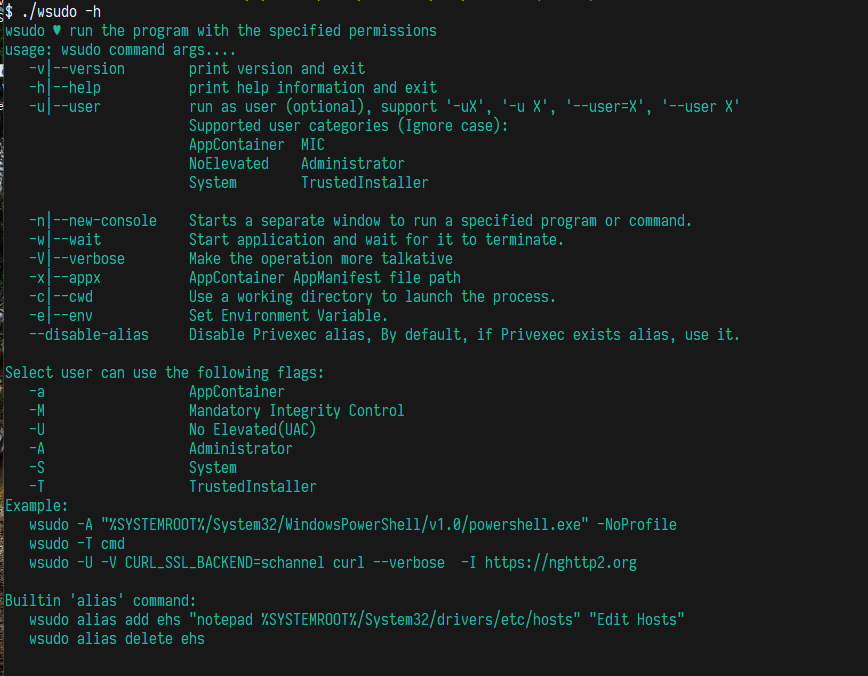
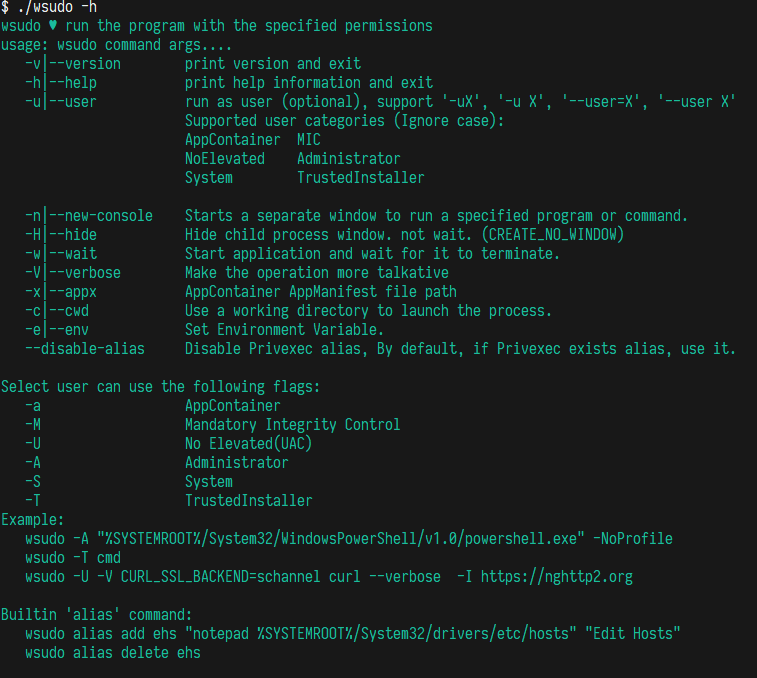
wsudo support -H/--hide

diff --git a/wsudo/wsudo.cc b/wsudo/wsudo.cc
@@ -115,7 +115,11 @@ int AppMode::ParseArgv(int argc, wchar_t **argv) {
       continue;
     }
     if (Match(arg, L"-n", L"--new-console")) {
-      newconsole = true;
+      visible = priv::VisibleNewConsole;
+      continue;
+    }
+    if (Match(arg, L"-H", L"--hide")) {
+      visible = priv::VisibleHide;
       continue;
     }
     if (Match(arg, L"--disable-alias")) {
@@ -227,6 +231,7 @@ usage: wsudo command args....
                        System        TrustedInstaller
 
    -n|--new-console    Starts a separate window to run a specified program or command.
+   -H|--hide           Hide child process window. not wait. (CREATE_NO_WINDOW)
    -w|--wait           Start application and wait for it to terminate.
    -V|--verbose        Make the operation more talkative
    -x|--appx           AppContainer AppManifest file path
@@ -343,14 +348,19 @@ int AppExecute(wsudo::AppMode &am) {
   auto cmdline = ExpandEnv(cmd);
   auto isconsole = AppExecuteSubsystemIsConsole(cmdline, am.verbose);
   auto elevated = priv::IsUserAdministratorsGroup();
-  bool newconsole = am.newconsole;
-  // UAC Elevated
-  if (!elevated && am.level == priv::ProcessElevated) {
-    newconsole = isconsole;
+  bool waitable = false;
+  if (!elevated && am.level == priv::ProcessElevated &&
+      am.visible == priv::VisibleNone) {
+    am.visible = priv::VisibleNewConsole; /// change visible
   }
+  if (am.visible == priv::VisibleNone && isconsole || am.wait) {
+    waitable = true;
+  }
+  // UAC Elevated
+
   if (am.verbose && isconsole) {
     priv::Print(priv::fc::Yellow, L"* App subsystem is console, %s\n",
-                newconsole ? L"create new console" : L"share the same console");
+                am.Visible());
   }
   for (auto it = am.args.begin() + 1; it != am.args.end(); it++) {
     if (it->empty()) {
@@ -378,7 +388,7 @@ int AppExecute(wsudo::AppMode &am) {
       p.cwd() = ExpandEnv(am.cwd.data());
     }
     auto appx = ExpandEnv(am.appx.data());
-    p.newconsole(newconsole);
+    p.visiblemode(am.visible);
     priv::Print(priv::fc::Yellow, L"Command: %s\n", cmdline);
     if (!p.initialize(appx) || !p.execute()) {
       auto ec = priv::error_code::lasterror();
@@ -395,21 +405,21 @@ int AppExecute(wsudo::AppMode &am) {
     }
     priv::Print(priv::fc::Green, L"new appcontainer process is running: %d\n",
                 p.pid());
-    if (!newconsole && isconsole || am.wait) {
+    if (waitable) {
       return AppWait(p.pid());
     }
     return 0;
   }
 
   priv::process p(cmdline);
-  p.newconsole(am.newconsole);
+  p.visiblemode(am.visible);
   if (!am.cwd.empty()) {
     p.cwd() = ExpandEnv(am.cwd.data());
   }
   priv::Print(priv::fc::Yellow, L"Command: %s\n", cmdline);
   if (p.execute(am.level)) {
     priv::Print(priv::fc::Green, L"new process is running: %d\n", p.pid());
-    if (!newconsole && isconsole || am.wait) {
+    if (waitable) {
       return AppWait(p.pid());
     }
     return 0;

diff --git a/Privexec/apputils.cc b/Privexec/apputils.cc
@@ -4,6 +4,7 @@
 #include <commdlg.h>
 #include <shellapi.h>
 #include <ShlObj.h>
+#include <comutils.hpp>
 
 HRESULT WINAPI TaskDialogCallbackProc__(__in HWND hwnd, __in UINT msg,
                                         __in WPARAM wParam, __in LPARAM lParam,
@@ -26,52 +27,6 @@ HRESULT WINAPI TaskDialogCallbackProc__(__in HWND hwnd, __in UINT msg,
 }
 
 namespace utils {
-template <class T> class comptr {
-public:
-  comptr() { ptr = NULL; }
-  comptr(T *p) {
-    ptr = p;
-    if (ptr != NULL)
-      ptr->AddRef();
-  }
-  comptr(const comptr<T> &sptr) {
-    ptr = sptr.ptr;
-    if (ptr != NULL)
-      ptr->AddRef();
-  }
-  T **operator&() { return &ptr; }
-  T *operator->() { return ptr; }
-  T *operator=(T *p) {
-    if (*this != p) {
-      ptr = p;
-      if (ptr != NULL)
-        ptr->AddRef();
-    }
-    return *this;
-  }
-  operator T *() const { return ptr; }
-  template <class I> HRESULT QueryInterface(REFCLSID rclsid, I **pp) {
-    if (pp != NULL) {
-      return ptr->QueryInterface(rclsid, (void **)pp);
-    } else {
-      return E_FAIL;
-    }
-  }
-  HRESULT CoCreateInstance(REFCLSID clsid, IUnknown *pUnknown,
-                           REFIID interfaceId,
-                           DWORD dwClsContext = CLSCTX_ALL) {
-    HRESULT hr = ::CoCreateInstance(clsid, pUnknown, dwClsContext, interfaceId,
-                                    (void **)&ptr);
-    return hr;
-  }
-  ~comptr() {
-    if (ptr != NULL)
-      ptr->Release();
-  }
-
-private:
-  T *ptr;
-};
 
 HRESULT PrivMessageBox(HWND hWnd, LPCWSTR pszWindowTitle, LPCWSTR pszContent,
                        LPCWSTR pszExpandedInfo, windowtype_t type) {
@@ -129,8 +84,8 @@ std::optional<std::wstring> PrivFilePicker(HWND hWnd, const wchar_t *title,
   if (filter == nullptr) {
     return std::nullopt;
   }
-  comptr<IFileOpenDialog> window;
-  comptr<IShellItem> item;
+  priv::comptr<IFileOpenDialog> window;
+  priv::comptr<IShellItem> item;
   if (window.CoCreateInstance(CLSID_FileOpenDialog, nullptr,
                               IID_IFileOpenDialog,
                               CLSCTX_INPROC_SERVER) != S_OK) {
@@ -160,7 +115,7 @@ std::optional<std::wstring> PrivFilePicker(HWND hWnd, const wchar_t *title,
   return opt;
 }
 std::optional<std::wstring> PrivFolderPicker(HWND hWnd, const wchar_t *title) {
-  comptr<IFileDialog> w;
+  priv::comptr<IFileDialog> w;
   if (w.CoCreateInstance(CLSID_FileOpenDialog, nullptr, IID_IFileDialog,
                          CLSCTX_INPROC_SERVER) != S_OK) {
     return std::nullopt;
@@ -171,7 +126,7 @@ std::optional<std::wstring> PrivFolderPicker(HWND hWnd, const wchar_t *title) {
   }
   w->SetOptions(dwo | FOS_PICKFOLDERS);
   w->SetTitle(title == nullptr ? L"Open Folder Picker" : title);
-  comptr<IShellItem> item;
+  priv::comptr<IShellItem> item;
   if (w->Show(hWnd) != S_OK) {
     return std::nullopt;
   }

diff --git a/include/process/details/processfwd.hpp b/include/process/details/processfwd.hpp
@@ -72,6 +72,12 @@ enum ProcessExecuteLevel {
   ProcessTrustedInstaller
 };
 
+enum visiblemode_t {
+  VisibleNone, //
+  VisibleNewConsole,
+  VisibleHide
+};
+
 class process {
 public:
   template <typename... Args> process(std::wstring_view app, Args... args) {
@@ -111,9 +117,9 @@ public:
   bool lowlevelexec();
   bool systemexec();
   //
-  bool newconsole(bool nc_) {
-    nc = nc_;
-    return nc;
+  visiblemode_t visiblemode(visiblemode_t vm) {
+    visible = vm;
+    return visible;
   }
 
 private:
@@ -122,7 +128,7 @@ private:
   std::wstring cmd_;
   std::wstring cwd_;
   std::wstring kmessage;
-  bool nc{false};
+  visiblemode_t visible{VisibleNone}; ///
 };
 // SECURITY_CAPABILITY_INTERNET_EXPLORER
 using wid_t = WELL_KNOWN_SID_TYPE;
@@ -178,9 +184,9 @@ public:
   bool execute();
 
   //
-  bool newconsole(bool nc_) {
-    nc = nc_;
-    return nc;
+  visiblemode_t visiblemode(visiblemode_t vm) {
+    visible = vm;
+    return visible;
   }
 
 private:
@@ -190,7 +196,7 @@ private:
   std::wstring kmessage;
   PSID appcontainersid{nullptr};
   capabilities_t ca;
-  bool nc{false};
+  visiblemode_t visible{VisibleNone}; ///
 };
 
 /*++

diff --git a/wsudo/wsudo.hpp b/wsudo/wsudo.hpp
@@ -67,7 +67,20 @@ struct AppMode {
   bool verbose{false};                // --verbose -V
   bool disablealias{false};           // --disable-alias
   bool wait{false};                   // -w --wait
-  bool newconsole{false};             // -n --new-console
+  priv::visiblemode_t visible{priv::VisibleNone};
+  const wchar_t *Visible() {
+    switch (visible) {
+    case priv::VisibleNone:
+      return L"shared console window";
+    case priv::VisibleNewConsole:
+      return L"new console window";
+    case priv::VisibleHide:
+      return L"no console window";
+    default:
+      break;
+    }
+    return L"none";
+  }
   bool IsAppLevel(const wchar_t *arg);
   bool IsAppLevelKey(std::wstring_view k);
   int ParseArgv(int argc, wchar_t **argv);

diff --git a/ReadMe.md b/ReadMe.md
@@ -84,6 +84,7 @@ usage: wsudo command args....
                        System        TrustedInstaller
 
    -n|--new-console    Starts a separate window to run a specified program or command.
+   -H|--hide           Hide child process window. not wait. (CREATE_NO_WINDOW)
    -w|--wait           Start application and wait for it to terminate.
    -V|--verbose        Make the operation more talkative
    -x|--appx           AppContainer AppManifest file path
